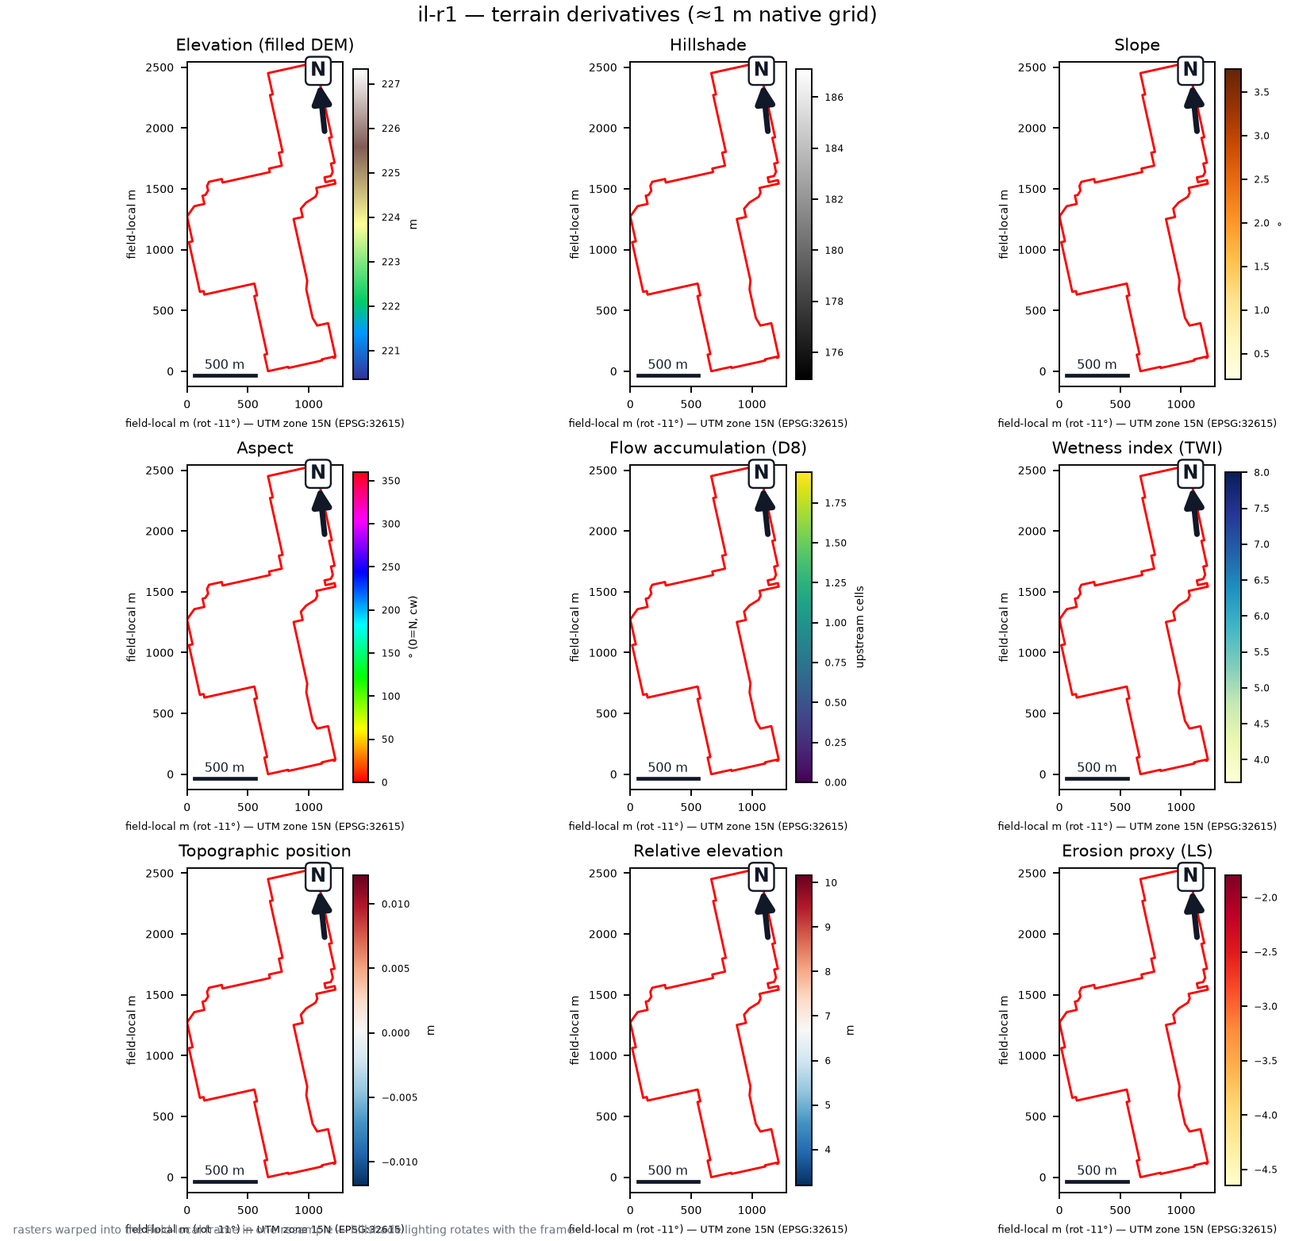
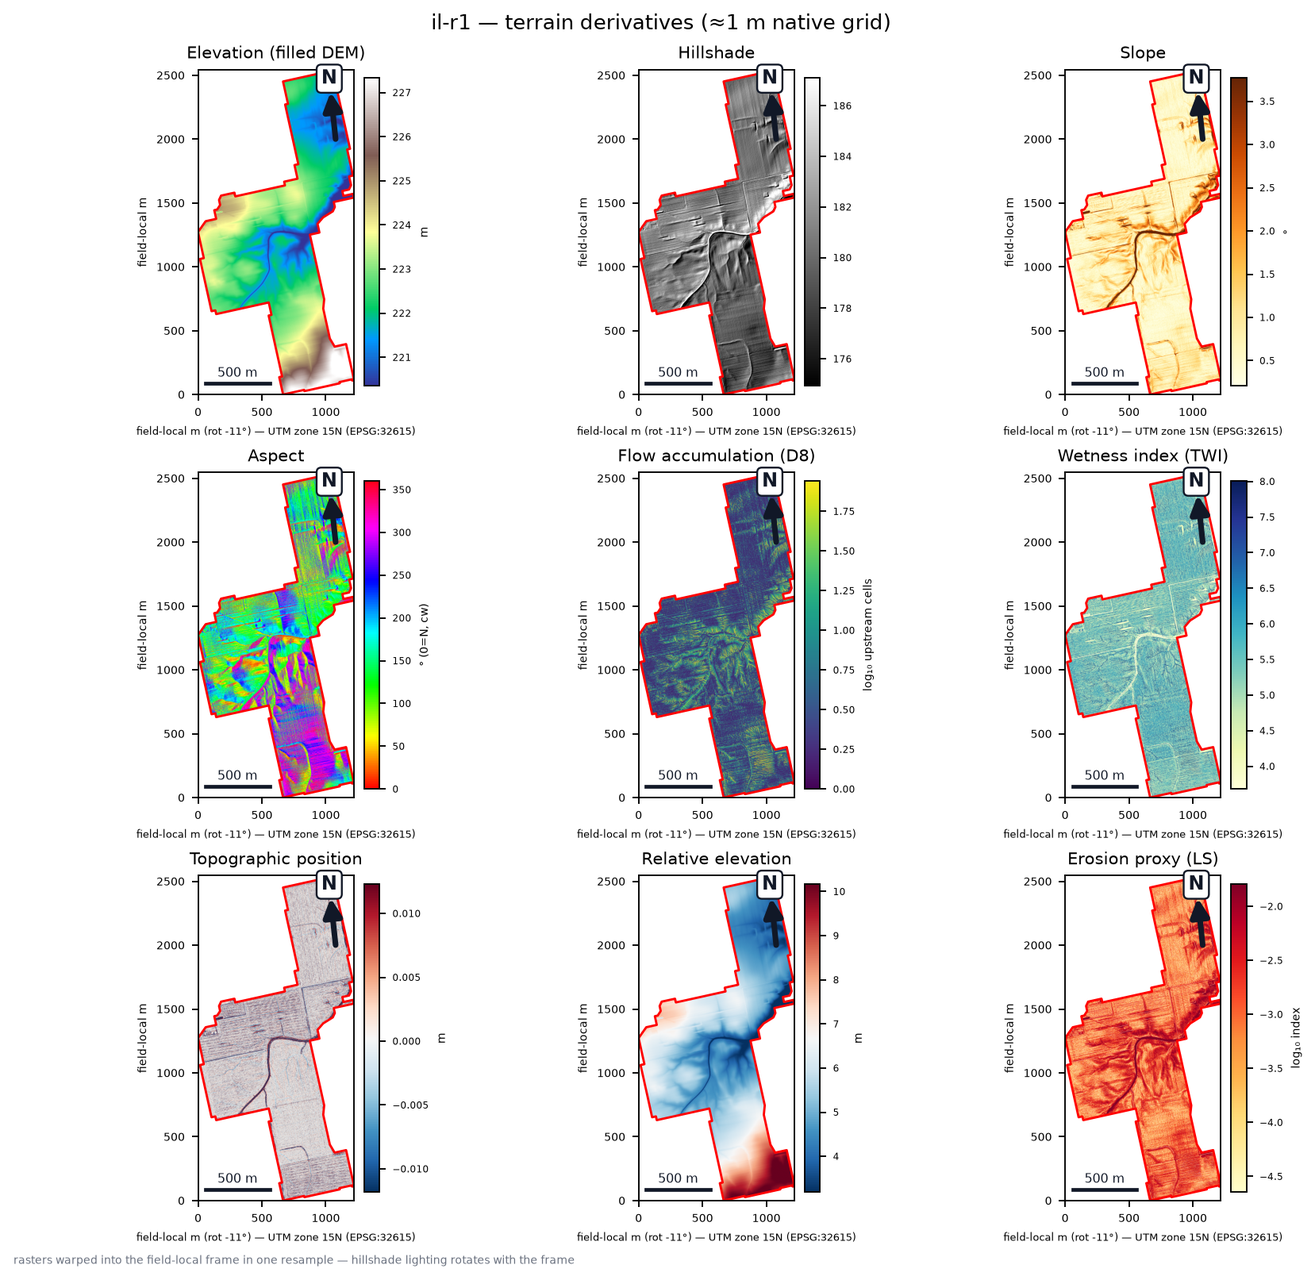
parity: skills a0df48ce — frame anchor fix, terrain/grid re-renders, unobserved honesty, scale standard

Changed region(s): [[0.0, 0.0, 0.6875, 1.0], [0.75, 0.0307, 1.0, 1.0], [0.7812, 0.2455, 0.8125, 0.2762]]

diff --git a/my-farm-advisor/data-pipeline/src/scripts/lib/field_frame.py b/my-farm-advisor/data-pipeline/src/scripts/lib/field_frame.py
@@ -114,8 +114,14 @@ def frame_for(gdf: gpd.GeoDataFrame, panel_h_in: float, panel_w_in: float,
         gu = gu.assign(geometry=gu.geometry.map(lambda g: affinity.rotate(g, -rot, origin=(0, 0))))
     x0r, y0r, _, _ = gu.total_bounds
     gu = gu.assign(geometry=gu.geometry.translate(xoff=-x0r, yoff=-y0r))
-    # (x0r, y0r) in zone coords = the framed (0,0) corner; inverse-project it
-    e0, n0 = x0 + x0r, y0 + y0r
+    # The framed (0,0) corner sits at (x0r, y0r) IN ROTATED SPACE. Inverting
+    # the framing v = shift + R_ccw(f + rmin) gives the zone-coord anchor
+    #   e0,n0 = (x0,y0) + R_ccw(x0r, y0r)
+    # — rotating the re-pin offset back is mandatory (omitting it shears the
+    # anchor off by ~rot_rad * |rmin|, i.e. km at rot 50+).
+    rpin = math.radians(rot)
+    e0 = x0 + x0r * math.cos(rpin) - y0r * math.sin(rpin)
+    n0 = y0 + x0r * math.sin(rpin) + y0r * math.cos(rpin)
     corner = gpd.GeoDataFrame(geometry=[gpd.points_from_xy([e0], [n0])[0]],
                               crs=epsg).to_crs(4326).geometry.iloc[0]
     # TRUE north in frame coords, numerically (captures grid convergence)
@@ -172,10 +178,17 @@ def reproject_into_frame(ds, f: Frame, dst_res: float, poly_metric=None):
     from rasterio.transform import Affine
 
     r_ = math.radians(f.rot)
-    nr, nc = int(_frame_height(f) / dst_res) + 1, int(_frame_width(f) / dst_res) + 1
+    H = _frame_height(f)
+    nr, nc = int(H / dst_res) + 1, int(_frame_width(f) / dst_res) + 1
     a, b = math.cos(r_) * dst_res, math.sin(r_) * dst_res
-    dst_tr = Affine(a, b, f.e0 - nr * dst_res * math.sin(r_),
-                    b, -a, f.n0 + nr * dst_res * math.cos(r_))
+    # Frame->UTM inverse: E = e0 + x*cos r - y*sin r, N = n0 + x*sin r + y*cos r,
+    # with x = col*res, y = H - row*res (row 0 = north edge). Expanding:
+    #   E = (e0 - H*sin r) + col*(res cos r) + row*(res sin r)
+    #   N = (n0 + H*cos r) + col*(res sin r) + row*(-res cos r)
+    # -> top-left corner in UTM is (e0 - H*sin r, n0 + H*cos r).
+    h_pad = nr * dst_res
+    dst_tr = Affine(a, b, f.e0 - h_pad * math.sin(r_),
+                    b, -a, f.n0 + h_pad * math.cos(r_))
     dst = np.full((nr, nc), np.nan, dtype="float64")
     _src = ds.read(1, masked=True)
     _src = np.ma.masked_invalid(_src.astype("float64"))
@@ -184,15 +197,17 @@ def reproject_into_frame(ds, f: Frame, dst_res: float, poly_metric=None):
         src_transform=ds.transform, src_crs=ds.crs,
         dst_transform=dst_tr, dst_crs=f.epsg,
         resampling=rasterio.warp.Resampling.bilinear)
-    if poly_metric is None:
-        import geopandas as gpd
-        poly_metric = f.geometry.dissolve().geometry.iloc[0]  # already frame coords
-        gm = geometry_mask([poly_metric.__geo_interface__], out_shape=(nr, nc),
-                           transform=Affine(dst_res, 0, 0, 0, -dst_res, nr * dst_res),
-                           invert=True)
-    else:
-        gm = geometry_mask([poly_metric.__geo_interface__], out_shape=(nr, nc),
-                           transform=dst_tr, invert=True)
+    # Mask from the FRAME-coord polygon: exact by construction and independent
+    # of the geographic anchor (passing a UTM polygon here reintroduces every
+    # anchoring/convention bug into a step that has none). poly_metric is kept
+    # in the signature for callers; it is currently unused for masking.
+    _ = poly_metric
+    gm = geometry_mask([f.geometry.dissolve().union_all().__geo_interface__]
+                       if hasattr(f.geometry, "dissolve") else
+                       [f.geometry.__geo_interface__],
+                       out_shape=(nr, nc),
+                       transform=Affine(dst_res, 0, 0, 0, -dst_res, nr * dst_res),
+                       invert=True)
     return np.ma.masked_where(~gm, np.ma.masked_invalid(dst)), (0, nc * dst_res, 0, nr * dst_res)
 
 

diff --git a/skills/my-farm-advisor/data-pipeline/src/scripts/lib/field_frame.py b/skills/my-farm-advisor/data-pipeline/src/scripts/lib/field_frame.py
@@ -114,8 +114,14 @@ def frame_for(gdf: gpd.GeoDataFrame, panel_h_in: float, panel_w_in: float,
         gu = gu.assign(geometry=gu.geometry.map(lambda g: affinity.rotate(g, -rot, origin=(0, 0))))
     x0r, y0r, _, _ = gu.total_bounds
     gu = gu.assign(geometry=gu.geometry.translate(xoff=-x0r, yoff=-y0r))
-    # (x0r, y0r) in zone coords = the framed (0,0) corner; inverse-project it
-    e0, n0 = x0 + x0r, y0 + y0r
+    # The framed (0,0) corner sits at (x0r, y0r) IN ROTATED SPACE. Inverting
+    # the framing v = shift + R_ccw(f + rmin) gives the zone-coord anchor
+    #   e0,n0 = (x0,y0) + R_ccw(x0r, y0r)
+    # — rotating the re-pin offset back is mandatory (omitting it shears the
+    # anchor off by ~rot_rad * |rmin|, i.e. km at rot 50+).
+    rpin = math.radians(rot)
+    e0 = x0 + x0r * math.cos(rpin) - y0r * math.sin(rpin)
+    n0 = y0 + x0r * math.sin(rpin) + y0r * math.cos(rpin)
     corner = gpd.GeoDataFrame(geometry=[gpd.points_from_xy([e0], [n0])[0]],
                               crs=epsg).to_crs(4326).geometry.iloc[0]
     # TRUE north in frame coords, numerically (captures grid convergence)
@@ -172,10 +178,17 @@ def reproject_into_frame(ds, f: Frame, dst_res: float, poly_metric=None):
     from rasterio.transform import Affine
 
     r_ = math.radians(f.rot)
-    nr, nc = int(_frame_height(f) / dst_res) + 1, int(_frame_width(f) / dst_res) + 1
+    H = _frame_height(f)
+    nr, nc = int(H / dst_res) + 1, int(_frame_width(f) / dst_res) + 1
     a, b = math.cos(r_) * dst_res, math.sin(r_) * dst_res
-    dst_tr = Affine(a, b, f.e0 - nr * dst_res * math.sin(r_),
-                    b, -a, f.n0 + nr * dst_res * math.cos(r_))
+    # Frame->UTM inverse: E = e0 + x*cos r - y*sin r, N = n0 + x*sin r + y*cos r,
+    # with x = col*res, y = H - row*res (row 0 = north edge). Expanding:
+    #   E = (e0 - H*sin r) + col*(res cos r) + row*(res sin r)
+    #   N = (n0 + H*cos r) + col*(res sin r) + row*(-res cos r)
+    # -> top-left corner in UTM is (e0 - H*sin r, n0 + H*cos r).
+    h_pad = nr * dst_res
+    dst_tr = Affine(a, b, f.e0 - h_pad * math.sin(r_),
+                    b, -a, f.n0 + h_pad * math.cos(r_))
     dst = np.full((nr, nc), np.nan, dtype="float64")
     _src = ds.read(1, masked=True)
     _src = np.ma.masked_invalid(_src.astype("float64"))
@@ -184,15 +197,17 @@ def reproject_into_frame(ds, f: Frame, dst_res: float, poly_metric=None):
         src_transform=ds.transform, src_crs=ds.crs,
         dst_transform=dst_tr, dst_crs=f.epsg,
         resampling=rasterio.warp.Resampling.bilinear)
-    if poly_metric is None:
-        import geopandas as gpd
-        poly_metric = f.geometry.dissolve().geometry.iloc[0]  # already frame coords
-        gm = geometry_mask([poly_metric.__geo_interface__], out_shape=(nr, nc),
-                           transform=Affine(dst_res, 0, 0, 0, -dst_res, nr * dst_res),
-                           invert=True)
-    else:
-        gm = geometry_mask([poly_metric.__geo_interface__], out_shape=(nr, nc),
-                           transform=dst_tr, invert=True)
+    # Mask from the FRAME-coord polygon: exact by construction and independent
+    # of the geographic anchor (passing a UTM polygon here reintroduces every
+    # anchoring/convention bug into a step that has none). poly_metric is kept
+    # in the signature for callers; it is currently unused for masking.
+    _ = poly_metric
+    gm = geometry_mask([f.geometry.dissolve().union_all().__geo_interface__]
+                       if hasattr(f.geometry, "dissolve") else
+                       [f.geometry.__geo_interface__],
+                       out_shape=(nr, nc),
+                       transform=Affine(dst_res, 0, 0, 0, -dst_res, nr * dst_res),
+                       invert=True)
     return np.ma.masked_where(~gm, np.ma.masked_invalid(dst)), (0, nc * dst_res, 0, nr * dst_res)
 
 

diff --git a/my-farm-advisor/data-pipeline/src/scripts/render_worldcereal.py b/my-farm-advisor/data-pipeline/src/scripts/render_worldcereal.py
@@ -54,6 +54,8 @@ def _disp_name(t):
     lab = LABELS[t] if isinstance(t, int) else t
     if lab == "no_crop":
         return "no crop"
+    if lab == "\u25a1_unobserved":
+        return "unobserved"
     return _NICE.get(lab, lab.replace("_", " "))
 
 
@@ -127,7 +129,8 @@ def render_year_series(farm, field, years, season, fname, title):
         hist = np.bincount(arr[inside], minlength=255)
         total = max(int(inside.sum()), 1)
         share = {LABELS[t]: 100.0 * hist[t] / total for t in range(23)}
-        share["no_crop"] = 100.0 * (hist[23] + hist[254]) / total
+        share["no_crop"] = 100.0 * hist[23] / total
+        share["\u25a1_unobserved"] = 100.0 * hist[254] / total
         ranked = sorted(share.items(), key=lambda kv: -kv[1])
         segs, shown = [], 0
         for lab, pct in ranked:
@@ -147,13 +150,13 @@ def render_year_series(farm, field, years, season, fname, title):
         x1, y1 = tfm.transform(geom.bounds[2], geom.bounds[3])
         gdf.boundary.plot(ax=ax, lw=1.8, edgecolor="red")
         for lab, pct in ranked[:3]:
-            if pct >= 3.0 and lab != "no_crop":
+            if pct >= 3.0 and lab not in ("no_crop", "\u25a1_unobserved"):
                 t = LABELS.index(lab)
                 legend_seen[t] = f"{t} {_disp_name(lab)}"
     handles = [Patch(facecolor=PALETTE[t], label=legend_seen[t])
                for t in sorted(legend_seen)]
     handles.append(Patch(facecolor="#ffffff", edgecolor="#8d8d8d",
-                         label="no crop / no data"))
+                         label="unobserved / no crop"))
     fig.legend(handles=handles, loc="lower center", ncol=min(len(handles) + 1, 7),
                fontsize=8, framealpha=.95)
     fig.suptitle(title, fontsize=12, y=.99)
@@ -332,7 +335,7 @@ def render_rdm_overlay(farm, field, year, season, ref_geojson, fname, title,
                 label=f"{_disp_name(t)} ({_hist[t]:,} px)")
           for t in _top if _hist[t] > 0]
     _h.append(Patch(facecolor="#f8f9fa", edgecolor="#9ca3af",
-                    label=f"no crop / no data ({_hist[23] + _hist[254]:,} px)"))
+                    label=f"unobserved / no crop ({_hist[23] + _hist[254]:,} px)"))
     ax_l.legend(handles=_h, fontsize=6.2, loc="center left",
                 bbox_to_anchor=(1.01, .5), framealpha=.95)
     ax_l.set_title(f"model default ({season} {year}, keyless Planetary Computer)",

diff --git a/skills/my-farm-advisor/data-pipeline/src/scripts/render_worldcereal.py b/skills/my-farm-advisor/data-pipeline/src/scripts/render_worldcereal.py
@@ -54,6 +54,8 @@ def _disp_name(t):
     lab = LABELS[t] if isinstance(t, int) else t
     if lab == "no_crop":
         return "no crop"
+    if lab == "\u25a1_unobserved":
+        return "unobserved"
     return _NICE.get(lab, lab.replace("_", " "))
 
 
@@ -127,7 +129,8 @@ def render_year_series(farm, field, years, season, fname, title):
         hist = np.bincount(arr[inside], minlength=255)
         total = max(int(inside.sum()), 1)
         share = {LABELS[t]: 100.0 * hist[t] / total for t in range(23)}
-        share["no_crop"] = 100.0 * (hist[23] + hist[254]) / total
+        share["no_crop"] = 100.0 * hist[23] / total
+        share["\u25a1_unobserved"] = 100.0 * hist[254] / total
         ranked = sorted(share.items(), key=lambda kv: -kv[1])
         segs, shown = [], 0
         for lab, pct in ranked:
@@ -147,13 +150,13 @@ def render_year_series(farm, field, years, season, fname, title):
         x1, y1 = tfm.transform(geom.bounds[2], geom.bounds[3])
         gdf.boundary.plot(ax=ax, lw=1.8, edgecolor="red")
         for lab, pct in ranked[:3]:
-            if pct >= 3.0 and lab != "no_crop":
+            if pct >= 3.0 and lab not in ("no_crop", "\u25a1_unobserved"):
                 t = LABELS.index(lab)
                 legend_seen[t] = f"{t} {_disp_name(lab)}"
     handles = [Patch(facecolor=PALETTE[t], label=legend_seen[t])
                for t in sorted(legend_seen)]
     handles.append(Patch(facecolor="#ffffff", edgecolor="#8d8d8d",
-                         label="no crop / no data"))
+                         label="unobserved / no crop"))
     fig.legend(handles=handles, loc="lower center", ncol=min(len(handles) + 1, 7),
                fontsize=8, framealpha=.95)
     fig.suptitle(title, fontsize=12, y=.99)
@@ -332,7 +335,7 @@ def render_rdm_overlay(farm, field, year, season, ref_geojson, fname, title,
                 label=f"{_disp_name(t)} ({_hist[t]:,} px)")
           for t in _top if _hist[t] > 0]
     _h.append(Patch(facecolor="#f8f9fa", edgecolor="#9ca3af",
-                    label=f"no crop / no data ({_hist[23] + _hist[254]:,} px)"))
+                    label=f"unobserved / no crop ({_hist[23] + _hist[254]:,} px)"))
     ax_l.legend(handles=_h, fontsize=6.2, loc="center left",
                 bbox_to_anchor=(1.01, .5), framealpha=.95)
     ax_l.set_title(f"model default ({season} {year}, keyless Planetary Computer)",

diff --git a/my-farm-advisor/data-pipeline/src/scripts/reporting/render_terrain_derivatives.py b/my-farm-advisor/data-pipeline/src/scripts/reporting/render_terrain_derivatives.py
@@ -32,11 +32,11 @@ LAYER_ORDER = [
     ("hillshade.tif", "Hillshade", "", "gray", False),
     ("slope_degrees.tif", "Slope", "\u00b0", "YlOrBr", False),
     ("aspect_degrees.tif", "Aspect", "\u00b0 (0=N, cw)", None, False),
-    ("flow_accumulation.tif", "Flow accumulation (D8)", "upstream cells", "viridis", True),
+    ("flow_accumulation.tif", "Flow accumulation (D8)", "log\u2081\u2080 upstream cells", "viridis", True),
     ("topographic_wetness_index.tif", "Wetness index (TWI)", "", "YlGnBu", False),
     ("tpi.tif", "Topographic position", "m", "RdBu_r", False),
     ("relative_elevation.tif", "Relative elevation", "m", "RdBu_r", False),
-    ("erosion_proxy.tif", "Erosion proxy (LS)", "", "YlOrRd", True),
+    ("erosion_proxy.tif", "Erosion proxy (LS)", "log\u2081\u2080 index", "YlOrRd", True),
 ]
 
 
@@ -101,10 +101,10 @@ def main() -> int:
                 vmin, vmax = _vminmax(show)
         if cmap is None:  # aspect: cyclic
             im = ax.imshow(show, cmap="hsv", vmin=0, vmax=360,
-                           extent=[ext[0], ext[2], ext[1], ext[3]], origin="upper")
+                           extent=list(ext), origin="upper")
         else:
             im = ax.imshow(show, cmap=cmap, vmin=vmin, vmax=vmax,
-                           extent=[ext[0], ext[2], ext[1], ext[3]], origin="upper")
+                           extent=list(ext), origin="upper")
         cb = fig.colorbar(im, ax=ax, fraction=0.046, pad=0.03)
         cb.set_label(unit, fontsize=6); cb.ax.tick_params(labelsize=5)
         ff.geometry.dissolve().boundary.plot(ax=ax, color="red", lw=1.2)
@@ -114,10 +114,10 @@ def main() -> int:
         ax.tick_params(labelsize=5.8)
         _fflib.decorate(ax, ff, arrow_r=0.10, arrow_fs=10, callout=False)
     fig.suptitle(f"{args.field} — terrain derivatives ({src_note})", fontsize=11)
-    fig.text(0.01, 0.006, "rasters warped into the field-local frame in one resample \u2014 "
+    fig.text(0.0, -0.012, "rasters warped into the field-local frame in one resample \u2014 "
              "hillshade lighting rotates with the frame", fontsize=6, color="#6b7280")
     args.out.parent.mkdir(parents=True, exist_ok=True)
-    fig.savefig(args.out, dpi=170)
+    fig.savefig(args.out, dpi=170, bbox_inches="tight")
     plt.close(fig)
     print(f"wrote {args.out}")
     return 0

diff --git a/skills/my-farm-advisor/data-pipeline/src/scripts/reporting/render_terrain_derivatives.py b/skills/my-farm-advisor/data-pipeline/src/scripts/reporting/render_terrain_derivatives.py
@@ -32,11 +32,11 @@ LAYER_ORDER = [
     ("hillshade.tif", "Hillshade", "", "gray", False),
     ("slope_degrees.tif", "Slope", "\u00b0", "YlOrBr", False),
     ("aspect_degrees.tif", "Aspect", "\u00b0 (0=N, cw)", None, False),
-    ("flow_accumulation.tif", "Flow accumulation (D8)", "upstream cells", "viridis", True),
+    ("flow_accumulation.tif", "Flow accumulation (D8)", "log\u2081\u2080 upstream cells", "viridis", True),
     ("topographic_wetness_index.tif", "Wetness index (TWI)", "", "YlGnBu", False),
     ("tpi.tif", "Topographic position", "m", "RdBu_r", False),
     ("relative_elevation.tif", "Relative elevation", "m", "RdBu_r", False),
-    ("erosion_proxy.tif", "Erosion proxy (LS)", "", "YlOrRd", True),
+    ("erosion_proxy.tif", "Erosion proxy (LS)", "log\u2081\u2080 index", "YlOrRd", True),
 ]
 
 
@@ -101,10 +101,10 @@ def main() -> int:
                 vmin, vmax = _vminmax(show)
         if cmap is None:  # aspect: cyclic
             im = ax.imshow(show, cmap="hsv", vmin=0, vmax=360,
-                           extent=[ext[0], ext[2], ext[1], ext[3]], origin="upper")
+                           extent=list(ext), origin="upper")
         else:
             im = ax.imshow(show, cmap=cmap, vmin=vmin, vmax=vmax,
-                           extent=[ext[0], ext[2], ext[1], ext[3]], origin="upper")
+                           extent=list(ext), origin="upper")
         cb = fig.colorbar(im, ax=ax, fraction=0.046, pad=0.03)
         cb.set_label(unit, fontsize=6); cb.ax.tick_params(labelsize=5)
         ff.geometry.dissolve().boundary.plot(ax=ax, color="red", lw=1.2)
@@ -114,10 +114,10 @@ def main() -> int:
         ax.tick_params(labelsize=5.8)
         _fflib.decorate(ax, ff, arrow_r=0.10, arrow_fs=10, callout=False)
     fig.suptitle(f"{args.field} — terrain derivatives ({src_note})", fontsize=11)
-    fig.text(0.01, 0.006, "rasters warped into the field-local frame in one resample \u2014 "
+    fig.text(0.0, -0.012, "rasters warped into the field-local frame in one resample \u2014 "
              "hillshade lighting rotates with the frame", fontsize=6, color="#6b7280")
     args.out.parent.mkdir(parents=True, exist_ok=True)
-    fig.savefig(args.out, dpi=170)
+    fig.savefig(args.out, dpi=170, bbox_inches="tight")
     plt.close(fig)
     print(f"wrote {args.out}")
     return 0

diff --git a/my-farm-advisor/data-pipeline/src/scripts/reporting/generate_soil_grid_maps.py b/my-farm-advisor/data-pipeline/src/scripts/reporting/generate_soil_grid_maps.py
@@ -317,7 +317,9 @@ def render_field(
             cb = fig.colorbar(im, ax=ax, fraction=0.046, pad=0.03)
         cb.set_label(unit, fontsize=6)
         cb.ax.tick_params(labelsize=5.6)
-        mean_v = float(np.nanmean(arr))
+        _d = np.array(np.ma.getdata(arr), copy=True, dtype="float64")
+        _d[np.ma.getmaskarray(arr)] = np.nan
+        mean_v = float(np.nanmean(_d))
         ax.set_title(f"{label} — mean {mean_v:.1f}", fontsize=8.5)
         ff.geometry.dissolve().boundary.plot(ax=ax, color="red", lw=1.4)
         _panel_frame_labels(ax, ff, _fflib)

diff --git a/skills/my-farm-advisor/data-pipeline/src/scripts/reporting/generate_soil_grid_maps.py b/skills/my-farm-advisor/data-pipeline/src/scripts/reporting/generate_soil_grid_maps.py
@@ -317,7 +317,9 @@ def render_field(
             cb = fig.colorbar(im, ax=ax, fraction=0.046, pad=0.03)
         cb.set_label(unit, fontsize=6)
         cb.ax.tick_params(labelsize=5.6)
-        mean_v = float(np.nanmean(arr))
+        _d = np.array(np.ma.getdata(arr), copy=True, dtype="float64")
+        _d[np.ma.getmaskarray(arr)] = np.nan
+        mean_v = float(np.nanmean(_d))
         ax.set_title(f"{label} — mean {mean_v:.1f}", fontsize=8.5)
         ff.geometry.dissolve().boundary.plot(ax=ax, color="red", lw=1.4)
         _panel_frame_labels(ax, ff, _fflib)

diff --git a/my-farm-advisor/data-pipeline/references/field-map-frame.md b/my-farm-advisor/data-pipeline/references/field-map-frame.md
@@ -121,3 +121,28 @@ def orient_field(gdf, long_axis: str = "horizontal") -> tuple:
 - Restriction callouts on horizon tables live in a matplotlib **legend box**
   (hatched Patch handles, one entry per band) right of the texture stack —
   hand-placed gutter text provably collides when depth windows nest.
+
+## Continuous vs categorical — the scale standard for every map we publish
+
+Each figure declares its feature type and gets the scale class the literature
+uses for it (no rainbow on continuous fields, no continuous gradient on
+banded soil classes):
+
+| Feature | Type | Scale (standard adopted) |
+| --- | --- | --- |
+| Soil clay/silt/sand %, pH, CEC, OC (gridded) | banded soil classes | **ISRIC SoilGrids `soil.legends` discrete steps** (`BoundaryNorm`, vendored TSVs) — the same breaks ISRIC maps itself |
+| Soil texture class (triangle panel) | categorical (12 classes) | USDA texture-triangle fills, categorical |
+| Crop type / land class | categorical | WorldCereal official palette codes; unknown = white swatch with grey edge |
+| Elevation (DEM) | continuous | `terrain` (green→brown→white→blue) — relief convention, perceptually ordered |
+| Hillshade | continuous | grayscale |
+| Slope, TWI | continuous, positive-skew | sequential (`YlOrBr`, `YlGnBu`) |
+| Flow accumulation, LS | continuous, power-law | sequential on **log10** — axis says so (`log₁₀ upstream cells`) |
+| TPI, relative elevation | continuous, signed about 0 | diverging `RdBu_r`, midpoint at 0 |
+| Aspect | **cyclic** | HSV hue wheel, vmin/vmax fixed 0–360 (a sequential map on a cyclic quantity fakes a seam at N) |
+| NDVI | continuous −1…1 | diverging green↔tan (RdYlGn family), zero at the neutral break |
+
+Rule of thumb encoded in the renderers: if the value can be averaged
+meaningfully and orders spatially → sequential/diverging continuous; if it
+names something → categorical palette from the governing standard; if it is
+already published with official breaks (SoilGrids) → reuse the breaks,
+verbatim. Colorbars then carry units and (for log scales) the transform.

diff --git a/skills/my-farm-advisor/data-pipeline/references/field-map-frame.md b/skills/my-farm-advisor/data-pipeline/references/field-map-frame.md
@@ -121,3 +121,28 @@ def orient_field(gdf, long_axis: str = "horizontal") -> tuple:
 - Restriction callouts on horizon tables live in a matplotlib **legend box**
   (hatched Patch handles, one entry per band) right of the texture stack —
   hand-placed gutter text provably collides when depth windows nest.
+
+## Continuous vs categorical — the scale standard for every map we publish
+
+Each figure declares its feature type and gets the scale class the literature
+uses for it (no rainbow on continuous fields, no continuous gradient on
+banded soil classes):
+
+| Feature | Type | Scale (standard adopted) |
+| --- | --- | --- |
+| Soil clay/silt/sand %, pH, CEC, OC (gridded) | banded soil classes | **ISRIC SoilGrids `soil.legends` discrete steps** (`BoundaryNorm`, vendored TSVs) — the same breaks ISRIC maps itself |
+| Soil texture class (triangle panel) | categorical (12 classes) | USDA texture-triangle fills, categorical |
+| Crop type / land class | categorical | WorldCereal official palette codes; unknown = white swatch with grey edge |
+| Elevation (DEM) | continuous | `terrain` (green→brown→white→blue) — relief convention, perceptually ordered |
+| Hillshade | continuous | grayscale |
+| Slope, TWI | continuous, positive-skew | sequential (`YlOrBr`, `YlGnBu`) |
+| Flow accumulation, LS | continuous, power-law | sequential on **log10** — axis says so (`log₁₀ upstream cells`) |
+| TPI, relative elevation | continuous, signed about 0 | diverging `RdBu_r`, midpoint at 0 |
+| Aspect | **cyclic** | HSV hue wheel, vmin/vmax fixed 0–360 (a sequential map on a cyclic quantity fakes a seam at N) |
+| NDVI | continuous −1…1 | diverging green↔tan (RdYlGn family), zero at the neutral break |
+
+Rule of thumb encoded in the renderers: if the value can be averaged
+meaningfully and orders spatially → sequential/diverging continuous; if it
+names something → categorical palette from the governing standard; if it is
+already published with official breaks (SoilGrids) → reuse the breaks,
+verbatim. Colorbars then carry units and (for log scales) the transform.
